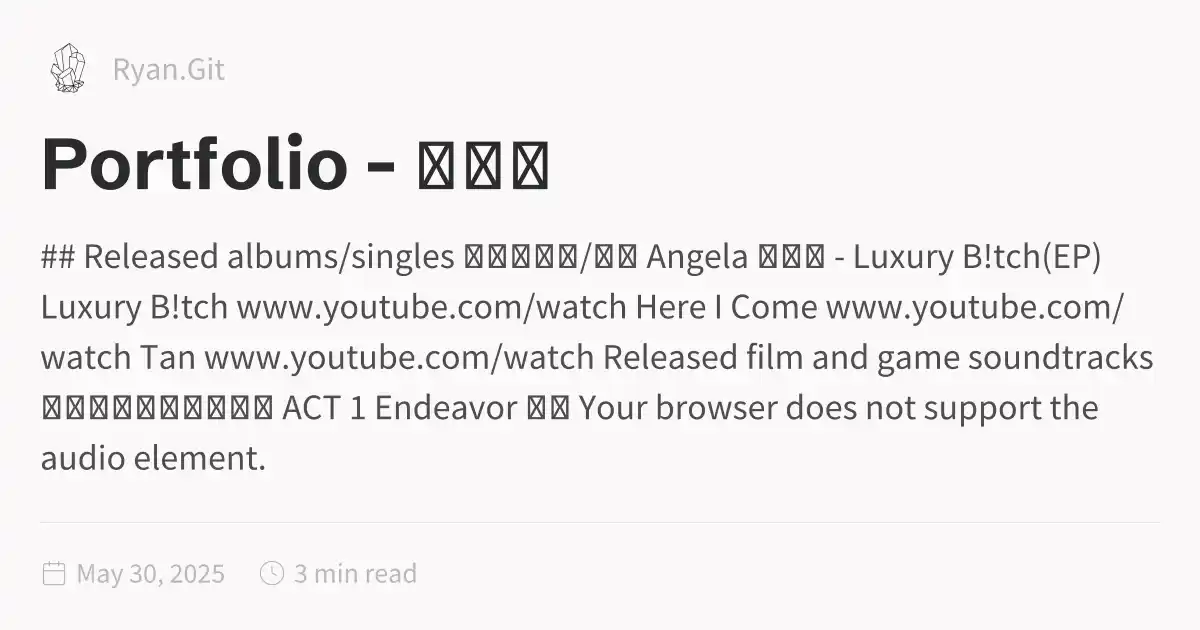
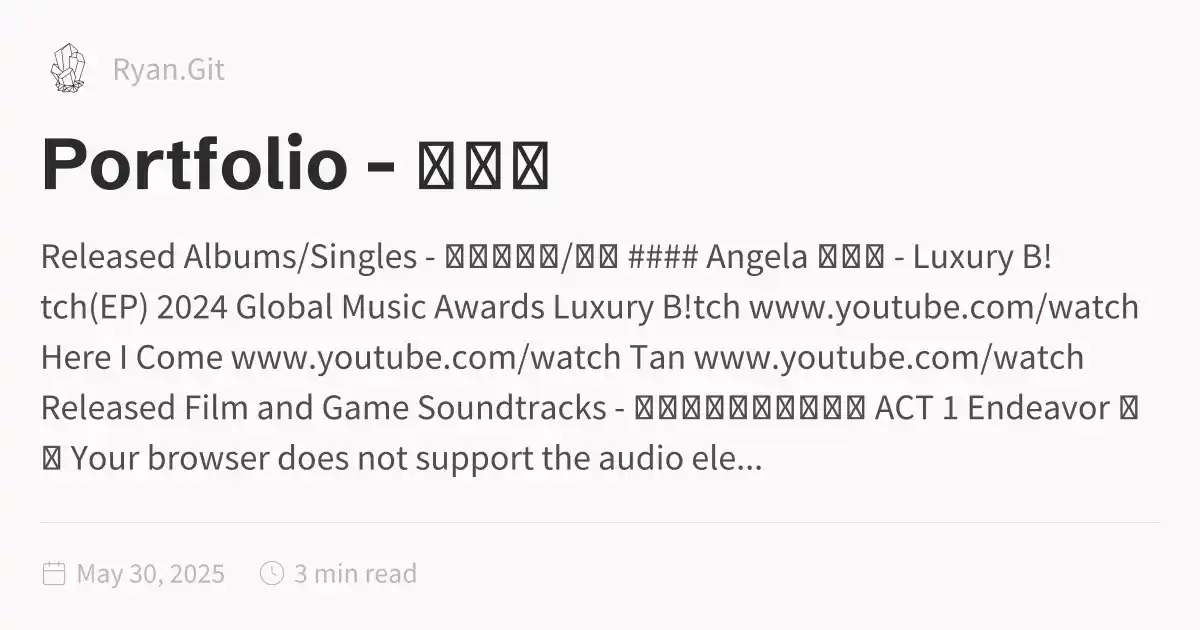
Deploy updated site

Changed region(s): [[0.0308, 0.5429, 0.9558, 0.6937], [0.0308, 0.3619, 0.9558, 0.5127], [0.0308, 0.6937, 0.6167, 0.754]]

diff --git a/Portfolio---作品集.html b/Portfolio---作品集.html
@@ -1,5 +1,5 @@
 <!DOCTYPE html>
-<html lang="en"><head><title>Portfolio - 作品集</title><meta charset="utf-8"/><link rel="preconnect" href="https://fonts.googleapis.com"/><link rel="preconnect" href="https://fonts.gstatic.com"/><link rel="stylesheet" href="https://fonts.googleapis.com/css2?family=Schibsted Grotesk:wght@400;700&amp;family=Source Sans Pro:ital,wght@0,400;0,600;1,400;1,600&amp;family=IBM Plex Mono:wght@400;600&amp;display=swap"/><link rel="preconnect" href="https://cdnjs.cloudflare.com" crossorigin="anonymous"/><meta name="viewport" content="width=device-width, initial-scale=1.0"/><meta name="og:site_name" content="Ryan.Git"/><meta property="og:title" content="Portfolio - 作品集"/><meta property="og:type" content="website"/><meta name="twitter:card" content="summary_large_image"/><meta name="twitter:title" content="Portfolio - 作品集"/><meta name="twitter:description" content="## Released albums/singles 已發行專輯/單曲 Angela 曾妃攸 - Luxury B!tch(EP) Luxury B!tch www.youtube.com/watch Here I Come www.youtube.com/watch Tan www.youtube.com/watch Released film and game soundtracks 已發行之影視遊戲配樂 ACT 1 Endeavor 努力 Your browser does not support the audio element."/><meta property="og:description" content="## Released albums/singles 已發行專輯/單曲 Angela 曾妃攸 - Luxury B!tch(EP) Luxury B!tch www.youtube.com/watch Here I Come www.youtube.com/watch Tan www.youtube.com/watch Released film and game soundtracks 已發行之影視遊戲配樂 ACT 1 Endeavor 努力 Your browser does not support the audio element."/><meta property="og:image:alt" content="## Released albums/singles 已發行專輯/單曲 Angela 曾妃攸 - Luxury B!tch(EP) Luxury B!tch www.youtube.com/watch Here I Come www.youtube.com/watch Tan www.youtube.com/watch Released film and game soundtracks 已發行之影視遊戲配樂 ACT 1 Endeavor 努力 Your browser does not support the audio element."/><meta property="twitter:domain" content="Ryan.Git"/><meta property="og:url" content="https://ryan.git/Portfolio---作品集"/><meta property="twitter:url" content="https://ryan.git/Portfolio---作品集"/><link rel="icon" href="./static/icon.png"/><meta name="description" content="## Released albums/singles 已發行專輯/單曲 Angela 曾妃攸 - Luxury B!tch(EP) Luxury B!tch www.youtube.com/watch Here I Come www.youtube.com/watch Tan www.youtube.com/watch Released film and game soundtracks 已發行之影視遊戲配樂 ACT 1 Endeavor 努力 Your browser does not support the audio element."/><meta name="generator" content="Quartz"/><link href="./index.css" rel="stylesheet" type="text/css" spa-preserve/><style>.expand-button {
+<html lang="en"><head><title>Portfolio - 作品集</title><meta charset="utf-8"/><link rel="preconnect" href="https://fonts.googleapis.com"/><link rel="preconnect" href="https://fonts.gstatic.com"/><link rel="stylesheet" href="https://fonts.googleapis.com/css2?family=Schibsted Grotesk:wght@400;700&amp;family=Source Sans Pro:ital,wght@0,400;0,600;1,400;1,600&amp;family=IBM Plex Mono:wght@400;600&amp;display=swap"/><link rel="preconnect" href="https://cdnjs.cloudflare.com" crossorigin="anonymous"/><meta name="viewport" content="width=device-width, initial-scale=1.0"/><meta name="og:site_name" content="Ryan.Git"/><meta property="og:title" content="Portfolio - 作品集"/><meta property="og:type" content="website"/><meta name="twitter:card" content="summary_large_image"/><meta name="twitter:title" content="Portfolio - 作品集"/><meta name="twitter:description" content="Released Albums/Singles - 已發行專輯/單曲 #### Angela 曾妃攸 - Luxury B!tch(EP) 2024 Global Music Awards Luxury B!tch www.youtube.com/watch Here I Come www.youtube.com/watch Tan www.youtube.com/watch Released Film and Game Soundtracks - 已發行之影視遊戲配樂 ACT 1 Endeavor 努力 Your browser does not support the audio ele..."/><meta property="og:description" content="Released Albums/Singles - 已發行專輯/單曲 #### Angela 曾妃攸 - Luxury B!tch(EP) 2024 Global Music Awards Luxury B!tch www.youtube.com/watch Here I Come www.youtube.com/watch Tan www.youtube.com/watch Released Film and Game Soundtracks - 已發行之影視遊戲配樂 ACT 1 Endeavor 努力 Your browser does not support the audio ele..."/><meta property="og:image:alt" content="Released Albums/Singles - 已發行專輯/單曲 #### Angela 曾妃攸 - Luxury B!tch(EP) 2024 Global Music Awards Luxury B!tch www.youtube.com/watch Here I Come www.youtube.com/watch Tan www.youtube.com/watch Released Film and Game Soundtracks - 已發行之影視遊戲配樂 ACT 1 Endeavor 努力 Your browser does not support the audio ele..."/><meta property="twitter:domain" content="Ryan.Git"/><meta property="og:url" content="https://ryan.git/Portfolio---作品集"/><meta property="twitter:url" content="https://ryan.git/Portfolio---作品集"/><link rel="icon" href="./static/icon.png"/><meta name="description" content="Released Albums/Singles - 已發行專輯/單曲 #### Angela 曾妃攸 - Luxury B!tch(EP) 2024 Global Music Awards Luxury B!tch www.youtube.com/watch Here I Come www.youtube.com/watch Tan www.youtube.com/watch Released Film and Game Soundtracks - 已發行之影視遊戲配樂 ACT 1 Endeavor 努力 Your browser does not support the audio ele..."/><meta name="generator" content="Quartz"/><link href="./index.css" rel="stylesheet" type="text/css" spa-preserve/><style>.expand-button {
   position: absolute;
   display: flex;
   float: right;
@@ -116,16 +116,19 @@ pre:hover > .expand-button {
   padding: 0 12px;
   font-size: 14px;
 }
[1 lines of base64/hex data omitted]
-## Released albums/singles 已發行專輯/單曲
-<h4 id="angela-曾妃攸---luxury-btchep">Angela 曾妃攸 - Luxury B!tch(EP)<a role="anchor" aria-hidden="true" tabindex="-1" data-no-popover="true" href="#angela-曾妃攸---luxury-btchep" class="internal"><svg width="18" height="18" viewBox="0 0 24 24" fill="none" stroke="currentColor" stroke-width="2" stroke-linecap="round" stroke-linejoin="round"><path d="M10 13a5 5 0 0 0 7.54.54l3-3a5 5 0 0 0-7.07-7.07l-1.72 1.71"></path><path d="M14 11a5 5 0 0 0-7.54-.54l-3 3a5 5 0 0 0 7.07 7.07l1.71-1.71"></path></svg></a></h4>
-<p>Luxury B!tch<br/>
-<a href="https://www.youtube.com/watch?v=59ubI0dUuvM" class="external">https://www.youtube.com/watch?v=59ubI0dUuvM<svg aria-hidden="true" class="external-icon" style="max-width:0.8em;max-height:0.8em;" viewBox="0 0 512 512"><path d="M320 0H288V64h32 82.7L201.4 265.4 178.7 288 224 333.3l22.6-22.6L448 109.3V192v32h64V192 32 0H480 320zM32 32H0V64 480v32H32 456h32V480 352 320H424v32 96H64V96h96 32V32H160 32z"></path></svg></a><br/>
-Here I Come<br/>
-<a href="https://www.youtube.com/watch?v=g6Ts4djaQEA" class="external">https://www.youtube.com/watch?v=g6Ts4djaQEA<svg aria-hidden="true" class="external-icon" style="max-width:0.8em;max-height:0.8em;" viewBox="0 0 512 512"><path d="M320 0H288V64h32 82.7L201.4 265.4 178.7 288 224 333.3l22.6-22.6L448 109.3V192v32h64V192 32 0H480 320zM32 32H0V64 480v32H32 456h32V480 352 320H424v32 96H64V96h96 32V32H160 32z"></path></svg></a><br/>
-Tan<br/>
-<a href="https://www.youtube.com/watch?v=v9j_55vB6DI" class="external">https://www.youtube.com/watch?v=v9j_55vB6DI<svg aria-hidden="true" class="external-icon" style="max-width:0.8em;max-height:0.8em;" viewBox="0 0 512 512"><path d="M320 0H288V64h32 82.7L201.4 265.4 178.7 288 224 333.3l22.6-22.6L448 109.3V192v32h64V192 32 0H480 320zM32 32H0V64 480v32H32 456h32V480 352 320H424v32 96H64V96h96 32V32H160 32z"></path></svg></a></p>
-<h2 id="released-film-and-game-soundtracks-已發行之影視遊戲配樂">Released film and game soundtracks 已發行之影視遊戲配樂<a role="anchor" aria-hidden="true" tabindex="-1" data-no-popover="true" href="#released-film-and-game-soundtracks-已發行之影視遊戲配樂" class="internal"><svg width="18" height="18" viewBox="0 0 24 24" fill="none" stroke="currentColor" stroke-width="2" stroke-linecap="round" stroke-linejoin="round"><path d="M10 13a5 5 0 0 0 7.54.54l3-3a5 5 0 0 0-7.07-7.07l-1.72 1.71"></path><path d="M14 11a5 5 0 0 0-7.54-.54l-3 3a5 5 0 0 0 7.07 7.07l1.71-1.71"></path></svg></a></h2>
[1 lines of base64/hex data omitted]
+<h2 id="released-albumssingles---已發行專輯單曲">Released Albums/Singles - 已發行專輯/單曲<a role="anchor" aria-hidden="true" tabindex="-1" data-no-popover="true" href="#released-albumssingles---已發行專輯單曲" class="internal"><svg width="18" height="18" viewBox="0 0 24 24" fill="none" stroke="currentColor" stroke-width="2" stroke-linecap="round" stroke-linejoin="round"><path d="M10 13a5 5 0 0 0 7.54.54l3-3a5 5 0 0 0-7.07-7.07l-1.72 1.71"></path><path d="M14 11a5 5 0 0 0-7.54-.54l-3 3a5 5 0 0 0 7.07 7.07l1.71-1.71"></path></svg></a></h2>
+<details>
+ <summary> #### Angela 曾妃攸 - Luxury B!tch(EP) </summary>
+2024 Global Music Awards 
+Luxury B!tch  
+https://www.youtube.com/watch?v=59ubI0dUuvM  
+Here I Come  
+https://www.youtube.com/watch?v=g6Ts4djaQEA  
+Tan  
+https://www.youtube.com/watch?v=v9j_55vB6DI  
+</details>
+<h2 id="released-film-and-game-soundtracks---已發行之影視遊戲配樂">Released Film and Game Soundtracks - 已發行之影視遊戲配樂<a role="anchor" aria-hidden="true" tabindex="-1" data-no-popover="true" href="#released-film-and-game-soundtracks---已發行之影視遊戲配樂" class="internal"><svg width="18" height="18" viewBox="0 0 24 24" fill="none" stroke="currentColor" stroke-width="2" stroke-linecap="round" stroke-linejoin="round"><path d="M10 13a5 5 0 0 0 7.54.54l3-3a5 5 0 0 0-7.07-7.07l-1.72 1.71"></path><path d="M14 11a5 5 0 0 0-7.54-.54l-3 3a5 5 0 0 0 7.07 7.07l1.71-1.71"></path></svg></a></h2>
 <p>ACT 1 Endeavor 努力
 <audio controls>
 <source src="audio/ACT-1-Endeavor.mp3" type="audio/mpeg"/>
@@ -261,6 +264,6 @@ Your browser does not support the audio element.
                 C46.042,11.405,47.451,12,49,12c3.309,0,6-2.691,6-6S52.309,0,49,0z M11,9c0-1.103,0.897-2,2-2s2,0.897,2,2s-0.897,2-2,2
                 S11,10.103,11,9z M6,51c-2.206,0-4-1.794-4-4s1.794-4,4-4s4,1.794,4,4S8.206,51,6,51z M33,49c0,2.206-1.794,4-4,4s-4-1.794-4-4
                 s1.794-4,4-4S33,46.794,33,49z M29,31c-3.309,0-6-2.691-6-6s2.691-6,6-6s6,2.691,6,6S32.309,31,29,31z M47,41c0,1.103-0.897,2-2,2
-                s-2-0.897-2-2s0.897-2,2-2S47,39.897,47,41z M49,10c-2.206,0-4-1.794-4-4s1.794-4,4-4s4,1.794,4,4S51.206,10,49,10z"></path></svg></button></div><div class="global-graph-outer"><div class="global-graph-container" data-cfg="{&quot;drag&quot;:true,&quot;zoom&quot;:true,&quot;depth&quot;:-1,&quot;scale&quot;:0.9,&quot;repelForce&quot;:0.5,&quot;centerForce&quot;:0.2,&quot;linkDistance&quot;:30,&quot;fontSize&quot;:0.6,&quot;opacityScale&quot;:1,&quot;showTags&quot;:true,&quot;removeTags&quot;:[],&quot;focusOnHover&quot;:true,&quot;enableRadial&quot;:true}"></div></div></div><div class="backlinks"><h3>Backlinks</h3><ul id="list-2" class="overflow"><li><a href="./Lovely-Road-Studio---樂利錄音室" class="internal">Lovely Road Studio - 樂利錄音室</a></li><li><a href="./Ryan-Marshall-Anthony-(莊來恩)---Bio" class="internal">Ryan Marshall Anthony (莊來恩) - Bio</a></li><li class="overflow-end"></li></ul></div></div><footer class><p>Created with <a href="https://quartz.jzhao.xyz/">Quartz v4.5.0</a> © 2025</p><ul><li><a href="https://github.com/jackyzha0/quartz">GitHub</a></li><li><a href="https://discord.gg/cRFFHYye7t">Discord Community</a></li></ul></footer></div></div></body><script type="application/javascript">function n(){let t=this.parentElement;t.classList.toggle("is-collapsed");let e=t.getElementsByClassName("callout-content")[0];if(!e)return;let l=t.classList.contains("is-collapsed");e.style.gridTemplateRows=l?"0fr":"1fr"}function c(){let t=document.getElementsByClassName("callout is-collapsible");for(let e of t){let l=e.getElementsByClassName("callout-title")[0],s=e.getElementsByClassName("callout-content")[0];if(!l||!s)continue;l.addEventListener("click",n),window.addCleanup(()=>l.removeEventListener("click",n));let o=e.classList.contains("is-collapsed");s.style.gridTemplateRows=o?"0fr":"1fr"}}document.addEventListener("nav",c);
+                s-2-0.897-2-2s0.897-2,2-2S47,39.897,47,41z M49,10c-2.206,0-4-1.794-4-4s1.794-4,4-4s4,1.794,4,4S51.206,10,49,10z"></path></svg></button></div><div class="global-graph-outer"><div class="global-graph-container" data-cfg="{&quot;drag&quot;:true,&quot;zoom&quot;:true,&quot;depth&quot;:-1,&quot;scale&quot;:0.9,&quot;repelForce&quot;:0.5,&quot;centerForce&quot;:0.2,&quot;linkDistance&quot;:30,&quot;fontSize&quot;:0.6,&quot;opacityScale&quot;:1,&quot;showTags&quot;:true,&quot;removeTags&quot;:[],&quot;focusOnHover&quot;:true,&quot;enableRadial&quot;:true}"></div></div></div><div class="toc desktop-only"><button type="button" class="toc-header" aria-controls="toc-content" aria-expanded="true"><h3>Table of Contents</h3><svg xmlns="http://www.w3.org/2000/svg" width="24" height="24" viewBox="0 0 24 24" fill="none" stroke="currentColor" stroke-width="2" stroke-linecap="round" stroke-linejoin="round" class="fold"><polyline points="6 9 12 15 18 9"></polyline></svg></button><ul class="toc-content overflow" id="list-1"><li class="depth-0"><a href="#released-albumssingles---已發行專輯單曲" data-for="released-albumssingles---已發行專輯單曲">Released Albums/Singles - 已發行專輯/單曲</a></li><li class="depth-0"><a href="#released-film-and-game-soundtracks---已發行之影視遊戲配樂" data-for="released-film-and-game-soundtracks---已發行之影視遊戲配樂">Released Film and Game Soundtracks - 已發行之影視遊戲配樂</a></li><li class="overflow-end"></li></ul></div><div class="backlinks"><h3>Backlinks</h3><ul id="list-2" class="overflow"><li><a href="./Ryan-Marshall-Anthony-(莊來恩)---Bio" class="internal">Ryan Marshall Anthony (莊來恩) - Bio</a></li><li class="overflow-end"></li></ul></div></div><footer class><p>Created with <a href="https://quartz.jzhao.xyz/">Quartz v4.5.0</a> © 2025</p><ul><li><a href="https://github.com/jackyzha0/quartz">GitHub</a></li><li><a href="https://discord.gg/cRFFHYye7t">Discord Community</a></li></ul></footer></div></div></body><script type="application/javascript">function n(){let t=this.parentElement;t.classList.toggle("is-collapsed");let e=t.getElementsByClassName("callout-content")[0];if(!e)return;let l=t.classList.contains("is-collapsed");e.style.gridTemplateRows=l?"0fr":"1fr"}function c(){let t=document.getElementsByClassName("callout is-collapsible");for(let e of t){let l=e.getElementsByClassName("callout-title")[0],s=e.getElementsByClassName("callout-content")[0];if(!l||!s)continue;l.addEventListener("click",n),window.addCleanup(()=>l.removeEventListener("click",n));let o=e.classList.contains("is-collapsed");s.style.gridTemplateRows=o?"0fr":"1fr"}}document.addEventListener("nav",c);
 </script><script type="module">function f(i,e){if(!i)return;function r(o){o.target===this&&(o.preventDefault(),o.stopPropagation(),e())}function t(o){o.key.startsWith("Esc")&&(o.preventDefault(),e())}i?.addEventListener("click",r),window.addCleanup(()=>i?.removeEventListener("click",r)),document.addEventListener("keydown",t),window.addCleanup(()=>document.removeEventListener("keydown",t))}function y(i){for(;i.firstChild;)i.removeChild(i.firstChild)}var h=class{constructor(e,r){this.container=e;this.content=r;this.setupEventListeners(),this.setupNavigationControls(),this.resetTransform()}isDragging=!1;startPan={x:0,y:0};currentPan={x:0,y:0};scale=1;MIN_SCALE=.5;MAX_SCALE=3;cleanups=[];setupEventListeners(){let e=this.onMouseDown.bind(this),r=this.onMouseMove.bind(this),t=this.onMouseUp.bind(this),o=this.resetTransform.bind(this);this.container.addEventListener("mousedown",e),document.addEventListener("mousemove",r),document.addEventListener("mouseup",t),window.addEventListener("resize",o),this.cleanups.push(()=>this.container.removeEventListener("mousedown",e),()=>document.removeEventListener("mousemove",r),()=>document.removeEventListener("mouseup",t),()=>window.removeEventListener("resize",o))}cleanup(){for(let e of this.cleanups)e()}setupNavigationControls(){let e=document.createElement("div");e.className="mermaid-controls";let r=this.createButton("+",()=>this.zoom(.1)),t=this.createButton("-",()=>this.zoom(-.1)),o=this.createButton("Reset",()=>this.resetTransform());e.appendChild(t),e.appendChild(o),e.appendChild(r),this.container.appendChild(e)}createButton(e,r){let t=document.createElement("button");return t.textContent=e,t.className="mermaid-control-button",t.addEventListener("click",r),window.addCleanup(()=>t.removeEventListener("click",r)),t}onMouseDown(e){e.button===0&&(this.isDragging=!0,this.startPan={x:e.clientX-this.currentPan.x,y:e.clientY-this.currentPan.y},this.container.style.cursor="grabbing")}onMouseMove(e){this.isDragging&&(e.preventDefault(),this.currentPan={x:e.clientX-this.startPan.x,y:e.clientY-this.startPan.y},this.updateTransform())}onMouseUp(){this.isDragging=!1,this.container.style.cursor="grab"}zoom(e){let r=Math.min(Math.max(this.scale+e,this.MIN_SCALE),this.MAX_SCALE),t=this.content.getBoundingClientRect(),o=t.width/2,n=t.height/2,c=r-this.scale;this.currentPan.x-=o*c,this.currentPan.y-=n*c,this.scale=r,this.updateTransform()}updateTransform(){this.content.style.transform=`translate(${this.currentPan.x}px, ${this.currentPan.y}px) scale(${this.scale})`}resetTransform(){this.scale=1;let e=this.content.querySelector("svg");this.currentPan={x:e.getBoundingClientRect().width/2,y:e.getBoundingClientRect().height/2},this.updateTransform()}},C=["--secondary","--tertiary","--gray","--light","--lightgray","--highlight","--dark","--darkgray","--codeFont"],E;document.addEventListener("nav",async()=>{let e=document.querySelector(".center").querySelectorAll("code.mermaid");if(e.length===0)return;E||=await import("https://cdnjs.cloudflare.com/ajax/libs/mermaid/11.4.0/mermaid.esm.min.mjs");let r=E.default,t=new WeakMap;for(let n of e)t.set(n,n.innerText);async function o(){for(let s of e){s.removeAttribute("data-processed");let a=t.get(s);a&&(s.innerHTML=a)}let n=C.reduce((s,a)=>(s[a]=window.getComputedStyle(document.documentElement).getPropertyValue(a),s),{}),c=document.documentElement.getAttribute("saved-theme")==="dark";r.initialize({startOnLoad:!1,securityLevel:"loose",theme:c?"dark":"base",themeVariables:{fontFamily:n["--codeFont"],primaryColor:n["--light"],primaryTextColor:n["--darkgray"],primaryBorderColor:n["--tertiary"],lineColor:n["--darkgray"],secondaryColor:n["--secondary"],tertiaryColor:n["--tertiary"],clusterBkg:n["--light"],edgeLabelBackground:n["--highlight"]}}),await r.run({nodes:e})}await o(),document.addEventListener("themechange",o),window.addCleanup(()=>document.removeEventListener("themechange",o));for(let n=0;n<e.length;n++){let v=function(){let g=l.querySelector("#mermaid-space"),m=l.querySelector(".mermaid-content");if(!m)return;y(m);let w=c.querySelector("svg").cloneNode(!0);m.appendChild(w),l.classList.add("active"),g.style.cursor="grab",u=new h(g,m)},M=function(){l.classList.remove("active"),u?.cleanup(),u=null},c=e[n],s=c.parentElement,a=s.querySelector(".clipboard-button"),d=s.querySelector(".expand-button"),p=window.getComputedStyle(a),L=a.offsetWidth+parseFloat(p.marginLeft||"0")+parseFloat(p.marginRight||"0");d.style.right=`calc(${L}px + 0.3rem)`,s.prepend(d);let l=s.querySelector("#mermaid-container");if(!l)return;let u=null;d.addEventListener("click",v),f(l,M),window.addCleanup(()=>{u?.cleanup(),d.removeEventListener("click",v)})}});
 </script><script src="https://cdn.jsdelivr.net/npm/katex@0.16.11/dist/contrib/copy-tex.min.js" type="application/javascript"></script><script src="./postscript.js" type="module"></script></html>

diff --git a/Ryan-Marshall-Anthony-(莊來恩)---Bio.html b/Ryan-Marshall-Anthony-(莊來恩)---Bio.html
@@ -116,7 +116,7 @@ pre:hover > .expand-button {
   padding: 0 12px;
   font-size: 14px;
 }
[2 lines of base64/hex data omitted]
 Ryan 的音樂天賦從小就嶄露無遺。六歲起，他透過鋼琴打開了廣闊的音樂世界，並在父親——那位曾被譽為「新加坡吉他之神」Raymond Anthony 的耳濡目染下，從小接觸並吸收了各種多元的音樂曲風與各種樂器演奏。在這樣的藝術薰陶中，Ryan 不僅紮實了根基，更在 16 歲那年便已展露頭角，以鍵盤手的身份，跟隨父親的樂團足跡遍及各地，開啟了他在音樂旅程上的璀璨生涯。</p>
 <p>From an early age, Ryan’s innate musical talent became evident. At six, he unlocked the vast world of music through the piano. Under the profound influence of his father, Raymond Anthony—who was once hailed as “<em>Singapore’s</em> Jimi Hendrix”—Ryan was exposed to and absorbed a diverse array of musical genres and different instrumental techniques from a young age. Nurtured in such an artistic environment, Ryan not only built a solid foundation but also distinguished himself at just 16. As a keyboardist, he began touring extensively with his father’s band, embarking on a brilliant career in his musical journey.</p>
 <hr/>
@@ -144,9 +144,11 @@ Ryan 在音樂製作領域展現了卓越的才華與多元的實力，涵蓋從
 <li><strong>《雙魚游泳》- Keanna Taiyh (feat. 雞二兄弟)：</strong> 百萬流量單曲。</li>
 </ul>
 <hr/>
-<p><a href="./Lovely-Road-Studio---樂利錄音室" class="internal alias" data-slug="Lovely-Road-Studio---樂利錄音室">樂利錄音室服務項目</a>
-<a href="./Portfolio---作品集" class="internal alias" data-slug="Portfolio---作品集">作品集</a></p>
-<h4 id="聯絡方式rma0429gmailcom-">聯絡方式:<a href="mailto:rma0429@gmail.com" class="external">rma0429@gmail.com<svg aria-hidden="true" class="external-icon" style="max-width:0.8em;max-height:0.8em;" viewBox="0 0 512 512"><path d="M320 0H288V64h32 82.7L201.4 265.4 178.7 288 224 333.3l22.6-22.6L448 109.3V192v32h64V192 32 0H480 320zM32 32H0V64 480v32H32 456h32V480 352 320H424v32 96H64V96h96 32V32H160 32z"></path></svg></a> <img src="./contact-1.png" width="auto" height="auto" alt/><a role="anchor" aria-hidden="true" tabindex="-1" data-no-popover="true" href="#聯絡方式rma0429gmailcom-" class="internal"><svg width="18" height="18" viewBox="0 0 24 24" fill="none" stroke="currentColor" stroke-width="2" stroke-linecap="round" stroke-linejoin="round"><path d="M10 13a5 5 0 0 0 7.54.54l3-3a5 5 0 0 0-7.07-7.07l-1.72 1.71"></path><path d="M14 11a5 5 0 0 0-7.54-.54l-3 3a5 5 0 0 0 7.07 7.07l1.71-1.71"></path></svg></a></h4></article><hr/><div class="page-footer"></div></div><div class="right sidebar"><div class="graph"><h3>Graph View</h3><div class="graph-outer"><div class="graph-container" data-cfg="{&quot;drag&quot;:true,&quot;zoom&quot;:true,&quot;depth&quot;:1,&quot;scale&quot;:1.1,&quot;repelForce&quot;:0.5,&quot;centerForce&quot;:0.3,&quot;linkDistance&quot;:30,&quot;fontSize&quot;:0.6,&quot;opacityScale&quot;:1,&quot;showTags&quot;:true,&quot;removeTags&quot;:[],&quot;focusOnHover&quot;:false,&quot;enableRadial&quot;:false}"></div><button class="global-graph-icon" aria-label="Global Graph"><svg version="1.1" xmlns="http://www.w3.org/2000/svg" xmlns:xlink="http://www.w3.org/1999/xlink" x="0px" y="0px" viewBox="0 0 55 55" fill="currentColor" xml:space="preserve"><path d="M49,0c-3.309,0-6,2.691-6,6c0,1.035,0.263,2.009,0.726,2.86l-9.829,9.829C32.542,17.634,30.846,17,29,17
+<div style="text-align:center;">
+<h3 id="樂利錄音室服務項目"><a href="./Lovely-Road-Studio---樂利錄音室" class="internal alias" data-slug="Lovely-Road-Studio---樂利錄音室">樂利錄音室服務項目</a><a role="anchor" aria-hidden="true" tabindex="-1" data-no-popover="true" href="#樂利錄音室服務項目" class="internal"><svg width="18" height="18" viewBox="0 0 24 24" fill="none" stroke="currentColor" stroke-width="2" stroke-linecap="round" stroke-linejoin="round"><path d="M10 13a5 5 0 0 0 7.54.54l3-3a5 5 0 0 0-7.07-7.07l-1.72 1.71"></path><path d="M14 11a5 5 0 0 0-7.54-.54l-3 3a5 5 0 0 0 7.07 7.07l1.71-1.71"></path></svg></a></h3>
+<h3 id="作品集"><a href="./Portfolio---作品集" class="internal alias" data-slug="Portfolio---作品集">作品集</a><a role="anchor" aria-hidden="true" tabindex="-1" data-no-popover="true" href="#作品集" class="internal"><svg width="18" height="18" viewBox="0 0 24 24" fill="none" stroke="currentColor" stroke-width="2" stroke-linecap="round" stroke-linejoin="round"><path d="M10 13a5 5 0 0 0 7.54.54l3-3a5 5 0 0 0-7.07-7.07l-1.72 1.71"></path><path d="M14 11a5 5 0 0 0-7.54-.54l-3 3a5 5 0 0 0 7.07 7.07l1.71-1.71"></path></svg></a></h3>
+</div>
+<h3 id="聯絡方式-rma0429gmailcom-">聯絡方式: <a href="mailto:rma0429@gmail.com" class="external">rma0429@gmail.com<svg aria-hidden="true" class="external-icon" style="max-width:0.8em;max-height:0.8em;" viewBox="0 0 512 512"><path d="M320 0H288V64h32 82.7L201.4 265.4 178.7 288 224 333.3l22.6-22.6L448 109.3V192v32h64V192 32 0H480 320zM32 32H0V64 480v32H32 456h32V480 352 320H424v32 96H64V96h96 32V32H160 32z"></path></svg></a> <img src="./contact-1.png" width="auto" height="auto" alt/><a role="anchor" aria-hidden="true" tabindex="-1" data-no-popover="true" href="#聯絡方式-rma0429gmailcom-" class="internal"><svg width="18" height="18" viewBox="0 0 24 24" fill="none" stroke="currentColor" stroke-width="2" stroke-linecap="round" stroke-linejoin="round"><path d="M10 13a5 5 0 0 0 7.54.54l3-3a5 5 0 0 0-7.07-7.07l-1.72 1.71"></path><path d="M14 11a5 5 0 0 0-7.54-.54l-3 3a5 5 0 0 0 7.07 7.07l1.71-1.71"></path></svg></a></h3></article><hr/><div class="page-footer"></div></div><div class="right sidebar"><div class="graph"><h3>Graph View</h3><div class="graph-outer"><div class="graph-container" data-cfg="{&quot;drag&quot;:true,&quot;zoom&quot;:true,&quot;depth&quot;:1,&quot;scale&quot;:1.1,&quot;repelForce&quot;:0.5,&quot;centerForce&quot;:0.3,&quot;linkDistance&quot;:30,&quot;fontSize&quot;:0.6,&quot;opacityScale&quot;:1,&quot;showTags&quot;:true,&quot;removeTags&quot;:[],&quot;focusOnHover&quot;:false,&quot;enableRadial&quot;:false}"></div><button class="global-graph-icon" aria-label="Global Graph"><svg version="1.1" xmlns="http://www.w3.org/2000/svg" xmlns:xlink="http://www.w3.org/1999/xlink" x="0px" y="0px" viewBox="0 0 55 55" fill="currentColor" xml:space="preserve"><path d="M49,0c-3.309,0-6,2.691-6,6c0,1.035,0.263,2.009,0.726,2.86l-9.829,9.829C32.542,17.634,30.846,17,29,17
                 s-3.542,0.634-4.898,1.688l-7.669-7.669C16.785,10.424,17,9.74,17,9c0-2.206-1.794-4-4-4S9,6.794,9,9s1.794,4,4,4
                 c0.74,0,1.424-0.215,2.019-0.567l7.669,7.669C21.634,21.458,21,23.154,21,25s0.634,3.542,1.688,4.897L10.024,42.562
                 C8.958,41.595,7.549,41,6,41c-3.309,0-6,2.691-6,6s2.691,6,6,6s6-2.691,6-6c0-1.035-0.263-2.009-0.726-2.86l12.829-12.829
@@ -156,6 +158,6 @@ Ryan 在音樂製作領域展現了卓越的才華與多元的實力，涵蓋從
                 C46.042,11.405,47.451,12,49,12c3.309,0,6-2.691,6-6S52.309,0,49,0z M11,9c0-1.103,0.897-2,2-2s2,0.897,2,2s-0.897,2-2,2
                 S11,10.103,11,9z M6,51c-2.206,0-4-1.794-4-4s1.794-4,4-4s4,1.794,4,4S8.206,51,6,51z M33,49c0,2.206-1.794,4-4,4s-4-1.794-4-4
                 s1.794-4,4-4S33,46.794,33,49z M29,31c-3.309,0-6-2.691-6-6s2.691-6,6-6s6,2.691,6,6S32.309,31,29,31z M47,41c0,1.103-0.897,2-2,2
-                s-2-0.897-2-2s0.897-2,2-2S47,39.897,47,41z M49,10c-2.206,0-4-1.794-4-4s1.794-4,4-4s4,1.794,4,4S51.206,10,49,10z"></path></svg></button></div><div class="global-graph-outer"><div class="global-graph-container" data-cfg="{&quot;drag&quot;:true,&quot;zoom&quot;:true,&quot;depth&quot;:-1,&quot;scale&quot;:0.9,&quot;repelForce&quot;:0.5,&quot;centerForce&quot;:0.2,&quot;linkDistance&quot;:30,&quot;fontSize&quot;:0.6,&quot;opacityScale&quot;:1,&quot;showTags&quot;:true,&quot;removeTags&quot;:[],&quot;focusOnHover&quot;:true,&quot;enableRadial&quot;:true}"></div></div></div><div class="toc desktop-only"><button type="button" class="toc-header" aria-controls="toc-content" aria-expanded="true"><h3>Table of Contents</h3><svg xmlns="http://www.w3.org/2000/svg" width="24" height="24" viewBox="0 0 24 24" fill="none" stroke="currentColor" stroke-width="2" stroke-linecap="round" stroke-linejoin="round" class="fold"><polyline points="6 9 12 15 18 9"></polyline></svg></button><ul class="toc-content overflow" id="list-1"><li class="depth-0"><a href="#keyboardist-鍵盤手" data-for="keyboardist-鍵盤手">Keyboardist (鍵盤手)</a></li><li class="depth-0"><a href="#dj-marshall" data-for="dj-marshall">DJ Marshall</a></li><li class="depth-0"><a href="#music-producer-音樂製作人" data-for="music-producer-音樂製作人">Music Producer (音樂製作人)</a></li><li class="overflow-end"></li></ul></div></div><footer class><p>Created with <a href="https://quartz.jzhao.xyz/">Quartz v4.5.0</a> © 2025</p><ul><li><a href="https://github.com/jackyzha0/quartz">GitHub</a></li><li><a href="https://discord.gg/cRFFHYye7t">Discord Community</a></li></ul></footer></div></div></body><script type="application/javascript">function n(){let t=this.parentElement;t.classList.toggle("is-collapsed");let e=t.getElementsByClassName("callout-content")[0];if(!e)return;let l=t.classList.contains("is-collapsed");e.style.gridTemplateRows=l?"0fr":"1fr"}function c(){let t=document.getElementsByClassName("callout is-collapsible");for(let e of t){let l=e.getElementsByClassName("callout-title")[0],s=e.getElementsByClassName("callout-content")[0];if(!l||!s)continue;l.addEventListener("click",n),window.addCleanup(()=>l.removeEventListener("click",n));let o=e.classList.contains("is-collapsed");s.style.gridTemplateRows=o?"0fr":"1fr"}}document.addEventListener("nav",c);
+                s-2-0.897-2-2s0.897-2,2-2S47,39.897,47,41z M49,10c-2.206,0-4-1.794-4-4s1.794-4,4-4s4,1.794,4,4S51.206,10,49,10z"></path></svg></button></div><div class="global-graph-outer"><div class="global-graph-container" data-cfg="{&quot;drag&quot;:true,&quot;zoom&quot;:true,&quot;depth&quot;:-1,&quot;scale&quot;:0.9,&quot;repelForce&quot;:0.5,&quot;centerForce&quot;:0.2,&quot;linkDistance&quot;:30,&quot;fontSize&quot;:0.6,&quot;opacityScale&quot;:1,&quot;showTags&quot;:true,&quot;removeTags&quot;:[],&quot;focusOnHover&quot;:true,&quot;enableRadial&quot;:true}"></div></div></div><div class="toc desktop-only"><button type="button" class="toc-header" aria-controls="toc-content" aria-expanded="true"><h3>Table of Contents</h3><svg xmlns="http://www.w3.org/2000/svg" width="24" height="24" viewBox="0 0 24 24" fill="none" stroke="currentColor" stroke-width="2" stroke-linecap="round" stroke-linejoin="round" class="fold"><polyline points="6 9 12 15 18 9"></polyline></svg></button><ul class="toc-content overflow" id="list-1"><li class="depth-0"><a href="#keyboardist-鍵盤手" data-for="keyboardist-鍵盤手">Keyboardist (鍵盤手)</a></li><li class="depth-0"><a href="#dj-marshall" data-for="dj-marshall">DJ Marshall</a></li><li class="depth-0"><a href="#music-producer-音樂製作人" data-for="music-producer-音樂製作人">Music Producer (音樂製作人)</a></li><li class="depth-1"><a href="#樂利錄音室服務項目" data-for="樂利錄音室服務項目">樂利錄音室服務項目</a></li><li class="depth-1"><a href="#作品集" data-for="作品集">作品集</a></li><li class="depth-1"><a href="#聯絡方式-rma0429gmailcom-" data-for="聯絡方式-rma0429gmailcom-">聯絡方式: rma0429@gmail.com </a></li><li class="overflow-end"></li></ul></div></div><footer class><p>Created with <a href="https://quartz.jzhao.xyz/">Quartz v4.5.0</a> © 2025</p><ul><li><a href="https://github.com/jackyzha0/quartz">GitHub</a></li><li><a href="https://discord.gg/cRFFHYye7t">Discord Community</a></li></ul></footer></div></div></body><script type="application/javascript">function n(){let t=this.parentElement;t.classList.toggle("is-collapsed");let e=t.getElementsByClassName("callout-content")[0];if(!e)return;let l=t.classList.contains("is-collapsed");e.style.gridTemplateRows=l?"0fr":"1fr"}function c(){let t=document.getElementsByClassName("callout is-collapsible");for(let e of t){let l=e.getElementsByClassName("callout-title")[0],s=e.getElementsByClassName("callout-content")[0];if(!l||!s)continue;l.addEventListener("click",n),window.addCleanup(()=>l.removeEventListener("click",n));let o=e.classList.contains("is-collapsed");s.style.gridTemplateRows=o?"0fr":"1fr"}}document.addEventListener("nav",c);
 </script><script type="module">function f(i,e){if(!i)return;function r(o){o.target===this&&(o.preventDefault(),o.stopPropagation(),e())}function t(o){o.key.startsWith("Esc")&&(o.preventDefault(),e())}i?.addEventListener("click",r),window.addCleanup(()=>i?.removeEventListener("click",r)),document.addEventListener("keydown",t),window.addCleanup(()=>document.removeEventListener("keydown",t))}function y(i){for(;i.firstChild;)i.removeChild(i.firstChild)}var h=class{constructor(e,r){this.container=e;this.content=r;this.setupEventListeners(),this.setupNavigationControls(),this.resetTransform()}isDragging=!1;startPan={x:0,y:0};currentPan={x:0,y:0};scale=1;MIN_SCALE=.5;MAX_SCALE=3;cleanups=[];setupEventListeners(){let e=this.onMouseDown.bind(this),r=this.onMouseMove.bind(this),t=this.onMouseUp.bind(this),o=this.resetTransform.bind(this);this.container.addEventListener("mousedown",e),document.addEventListener("mousemove",r),document.addEventListener("mouseup",t),window.addEventListener("resize",o),this.cleanups.push(()=>this.container.removeEventListener("mousedown",e),()=>document.removeEventListener("mousemove",r),()=>document.removeEventListener("mouseup",t),()=>window.removeEventListener("resize",o))}cleanup(){for(let e of this.cleanups)e()}setupNavigationControls(){let e=document.createElement("div");e.className="mermaid-controls";let r=this.createButton("+",()=>this.zoom(.1)),t=this.createButton("-",()=>this.zoom(-.1)),o=this.createButton("Reset",()=>this.resetTransform());e.appendChild(t),e.appendChild(o),e.appendChild(r),this.container.appendChild(e)}createButton(e,r){let t=document.createElement("button");return t.textContent=e,t.className="mermaid-control-button",t.addEventListener("click",r),window.addCleanup(()=>t.removeEventListener("click",r)),t}onMouseDown(e){e.button===0&&(this.isDragging=!0,this.startPan={x:e.clientX-this.currentPan.x,y:e.clientY-this.currentPan.y},this.container.style.cursor="grabbing")}onMouseMove(e){this.isDragging&&(e.preventDefault(),this.currentPan={x:e.clientX-this.startPan.x,y:e.clientY-this.startPan.y},this.updateTransform())}onMouseUp(){this.isDragging=!1,this.container.style.cursor="grab"}zoom(e){let r=Math.min(Math.max(this.scale+e,this.MIN_SCALE),this.MAX_SCALE),t=this.content.getBoundingClientRect(),o=t.width/2,n=t.height/2,c=r-this.scale;this.currentPan.x-=o*c,this.currentPan.y-=n*c,this.scale=r,this.updateTransform()}updateTransform(){this.content.style.transform=`translate(${this.currentPan.x}px, ${this.currentPan.y}px) scale(${this.scale})`}resetTransform(){this.scale=1;let e=this.content.querySelector("svg");this.currentPan={x:e.getBoundingClientRect().width/2,y:e.getBoundingClientRect().height/2},this.updateTransform()}},C=["--secondary","--tertiary","--gray","--light","--lightgray","--highlight","--dark","--darkgray","--codeFont"],E;document.addEventListener("nav",async()=>{let e=document.querySelector(".center").querySelectorAll("code.mermaid");if(e.length===0)return;E||=await import("https://cdnjs.cloudflare.com/ajax/libs/mermaid/11.4.0/mermaid.esm.min.mjs");let r=E.default,t=new WeakMap;for(let n of e)t.set(n,n.innerText);async function o(){for(let s of e){s.removeAttribute("data-processed");let a=t.get(s);a&&(s.innerHTML=a)}let n=C.reduce((s,a)=>(s[a]=window.getComputedStyle(document.documentElement).getPropertyValue(a),s),{}),c=document.documentElement.getAttribute("saved-theme")==="dark";r.initialize({startOnLoad:!1,securityLevel:"loose",theme:c?"dark":"base",themeVariables:{fontFamily:n["--codeFont"],primaryColor:n["--light"],primaryTextColor:n["--darkgray"],primaryBorderColor:n["--tertiary"],lineColor:n["--darkgray"],secondaryColor:n["--secondary"],tertiaryColor:n["--tertiary"],clusterBkg:n["--light"],edgeLabelBackground:n["--highlight"]}}),await r.run({nodes:e})}await o(),document.addEventListener("themechange",o),window.addCleanup(()=>document.removeEventListener("themechange",o));for(let n=0;n<e.length;n++){let v=function(){let g=l.querySelector("#mermaid-space"),m=l.querySelector(".mermaid-content");if(!m)return;y(m);let w=c.querySelector("svg").cloneNode(!0);m.appendChild(w),l.classList.add("active"),g.style.cursor="grab",u=new h(g,m)},M=function(){l.classList.remove("active"),u?.cleanup(),u=null},c=e[n],s=c.parentElement,a=s.querySelector(".clipboard-button"),d=s.querySelector(".expand-button"),p=window.getComputedStyle(a),L=a.offsetWidth+parseFloat(p.marginLeft||"0")+parseFloat(p.marginRight||"0");d.style.right=`calc(${L}px + 0.3rem)`,s.prepend(d);let l=s.querySelector("#mermaid-container");if(!l)return;let u=null;d.addEventListener("click",v),f(l,M),window.addCleanup(()=>{u?.cleanup(),d.removeEventListener("click",v)})}});
 </script><script src="https://cdn.jsdelivr.net/npm/katex@0.16.11/dist/contrib/copy-tex.min.js" type="application/javascript"></script><script src="./postscript.js" type="module"></script></html>

diff --git a/Lovely-Road-Studio---樂利錄音室.html b/Lovely-Road-Studio---樂利錄音室.html
@@ -1,5 +1,5 @@
 <!DOCTYPE html>
-<html lang="en"><head><title>Lovely Road Studio - 樂利錄音室</title><meta charset="utf-8"/><link rel="preconnect" href="https://fonts.googleapis.com"/><link rel="preconnect" href="https://fonts.gstatic.com"/><link rel="stylesheet" href="https://fonts.googleapis.com/css2?family=Schibsted Grotesk:wght@400;700&amp;family=Source Sans Pro:ital,wght@0,400;0,600;1,400;1,600&amp;family=IBM Plex Mono:wght@400;600&amp;display=swap"/><link rel="preconnect" href="https://cdnjs.cloudflare.com" crossorigin="anonymous"/><meta name="viewport" content="width=device-width, initial-scale=1.0"/><meta name="og:site_name" content="Ryan.Git"/><meta property="og:title" content="Lovely Road Studio - 樂利錄音室"/><meta property="og:type" content="website"/><meta name="twitter:card" content="summary_large_image"/><meta name="twitter:title" content="Lovely Road Studio - 樂利錄音室"/><meta name="twitter:description" content="作品集 ."/><meta property="og:description" content="作品集 ."/><meta property="og:image:alt" content="作品集 ."/><meta property="twitter:domain" content="Ryan.Git"/><meta property="og:url" content="https://ryan.git/Lovely-Road-Studio---樂利錄音室"/><meta property="twitter:url" content="https://ryan.git/Lovely-Road-Studio---樂利錄音室"/><link rel="icon" href="./static/icon.png"/><meta name="description" content="作品集 ."/><meta name="generator" content="Quartz"/><link href="./index.css" rel="stylesheet" type="text/css" spa-preserve/><style>.expand-button {
+<html lang="en"><head><title>Lovely Road Studio - 樂利錄音室</title><meta charset="utf-8"/><link rel="preconnect" href="https://fonts.googleapis.com"/><link rel="preconnect" href="https://fonts.gstatic.com"/><link rel="stylesheet" href="https://fonts.googleapis.com/css2?family=Schibsted Grotesk:wght@400;700&amp;family=Source Sans Pro:ital,wght@0,400;0,600;1,400;1,600&amp;family=IBM Plex Mono:wght@400;600&amp;display=swap"/><link rel="preconnect" href="https://cdnjs.cloudflare.com" crossorigin="anonymous"/><meta name="viewport" content="width=device-width, initial-scale=1.0"/><meta name="og:site_name" content="Ryan.Git"/><meta property="og:title" content="Lovely Road Studio - 樂利錄音室"/><meta property="og:type" content="website"/><meta name="twitter:card" content="summary_large_image"/><meta name="twitter:title" content="Lovely Road Studio - 樂利錄音室"/><meta name="twitter:description" content="###[作品集](Portfolio%20-%20作品集) ."/><meta property="og:description" content="###[作品集](Portfolio%20-%20作品集) ."/><meta property="og:image:alt" content="###[作品集](Portfolio%20-%20作品集) ."/><meta property="twitter:domain" content="Ryan.Git"/><meta property="og:url" content="https://ryan.git/Lovely-Road-Studio---樂利錄音室"/><meta property="twitter:url" content="https://ryan.git/Lovely-Road-Studio---樂利錄音室"/><link rel="icon" href="./static/icon.png"/><meta name="description" content="###[作品集](Portfolio%20-%20作品集) ."/><meta name="generator" content="Quartz"/><link href="./index.css" rel="stylesheet" type="text/css" spa-preserve/><style>.expand-button {
   position: absolute;
   display: flex;
   float: right;
@@ -116,10 +116,12 @@ pre:hover > .expand-button {
   padding: 0 12px;
   font-size: 14px;
 }
[1 lines of base64/hex data omitted]
-<img src="./樂利錄音室-服務項目＆價目-2-1.png" width="auto" height="auto" alt/>
-<a href="./Portfolio---作品集" class="internal alias" data-slug="Portfolio---作品集">作品集</a>
-<img src="./contact-2.png" width="auto" height="auto" alt/></p></article><hr/><div class="page-footer"></div></div><div class="right sidebar"><div class="graph"><h3>Graph View</h3><div class="graph-outer"><div class="graph-container" data-cfg="{&quot;drag&quot;:true,&quot;zoom&quot;:true,&quot;depth&quot;:1,&quot;scale&quot;:1.1,&quot;repelForce&quot;:0.5,&quot;centerForce&quot;:0.3,&quot;linkDistance&quot;:30,&quot;fontSize&quot;:0.6,&quot;opacityScale&quot;:1,&quot;showTags&quot;:true,&quot;removeTags&quot;:[],&quot;focusOnHover&quot;:false,&quot;enableRadial&quot;:false}"></div><button class="global-graph-icon" aria-label="Global Graph"><svg version="1.1" xmlns="http://www.w3.org/2000/svg" xmlns:xlink="http://www.w3.org/1999/xlink" x="0px" y="0px" viewBox="0 0 55 55" fill="currentColor" xml:space="preserve"><path d="M49,0c-3.309,0-6,2.691-6,6c0,1.035,0.263,2.009,0.726,2.86l-9.829,9.829C32.542,17.634,30.846,17,29,17
[1 lines of base64/hex data omitted]
+<img src="./樂利錄音室-服務項目＆價目-2-1.png" width="auto" height="auto" alt/></p>
+<div style="text-align:center;">
+###[作品集](Portfolio%20-%20作品集)
+</div>
+<p><img src="./contact-2.png" width="auto" height="auto" alt/></p></article><hr/><div class="page-footer"></div></div><div class="right sidebar"><div class="graph"><h3>Graph View</h3><div class="graph-outer"><div class="graph-container" data-cfg="{&quot;drag&quot;:true,&quot;zoom&quot;:true,&quot;depth&quot;:1,&quot;scale&quot;:1.1,&quot;repelForce&quot;:0.5,&quot;centerForce&quot;:0.3,&quot;linkDistance&quot;:30,&quot;fontSize&quot;:0.6,&quot;opacityScale&quot;:1,&quot;showTags&quot;:true,&quot;removeTags&quot;:[],&quot;focusOnHover&quot;:false,&quot;enableRadial&quot;:false}"></div><button class="global-graph-icon" aria-label="Global Graph"><svg version="1.1" xmlns="http://www.w3.org/2000/svg" xmlns:xlink="http://www.w3.org/1999/xlink" x="0px" y="0px" viewBox="0 0 55 55" fill="currentColor" xml:space="preserve"><path d="M49,0c-3.309,0-6,2.691-6,6c0,1.035,0.263,2.009,0.726,2.86l-9.829,9.829C32.542,17.634,30.846,17,29,17
                 s-3.542,0.634-4.898,1.688l-7.669-7.669C16.785,10.424,17,9.74,17,9c0-2.206-1.794-4-4-4S9,6.794,9,9s1.794,4,4,4
                 c0.74,0,1.424-0.215,2.019-0.567l7.669,7.669C21.634,21.458,21,23.154,21,25s0.634,3.542,1.688,4.897L10.024,42.562
                 C8.958,41.595,7.549,41,6,41c-3.309,0-6,2.691-6,6s2.691,6,6,6s6-2.691,6-6c0-1.035-0.263-2.009-0.726-2.86l12.829-12.829
